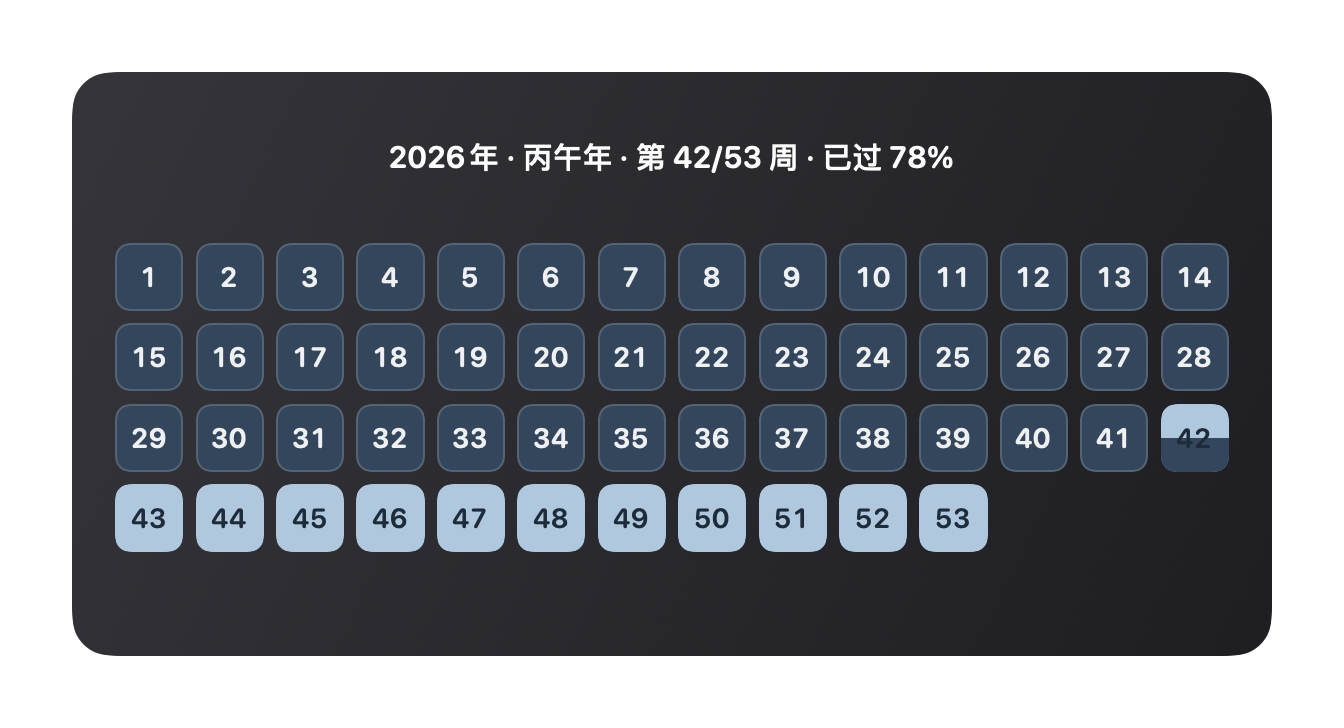
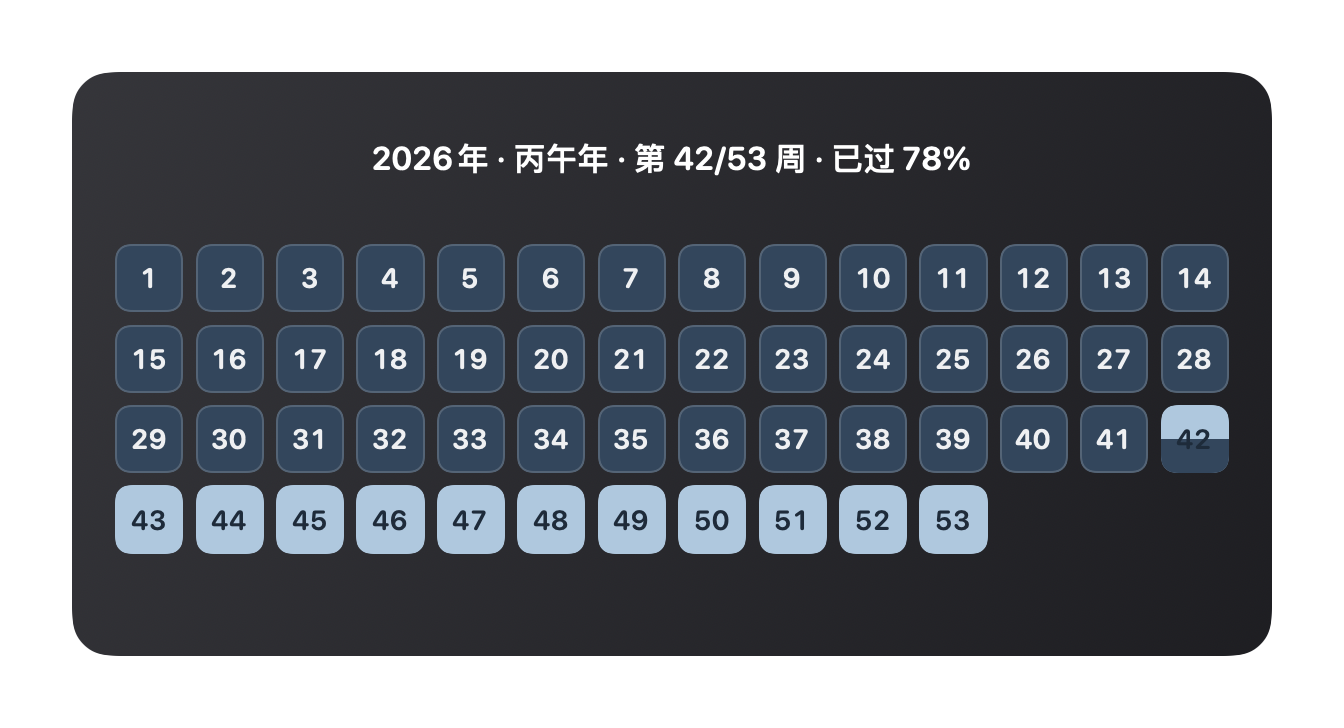
style(ui): 顶部字号再 +1（面板13pt/中号小组件12.5pt）

diff --git a/Sources/YearProgressUI/CardMetrics.swift b/Sources/YearProgressUI/CardMetrics.swift
@@ -47,7 +47,7 @@ public struct CardMetrics {
     public var headerGap: CGFloat { max(6, size.width * profile.headerGapRatio) }
     public var noteGap: CGFloat { max(2, size.width * profile.noteGapRatio) }
 
-    public var headerFont: CGFloat { clamp(size.width * profile.headerRatio, profile.headerRange) + 1 }
+    public var headerFont: CGFloat { clamp(size.width * profile.headerRatio, profile.headerRange) + 2 }
     public var noteFont: CGFloat { clamp(size.width * profile.noteRatio, profile.noteRange) }
 
     public var headerHeight: CGFloat { headerFont * 1.35 }
